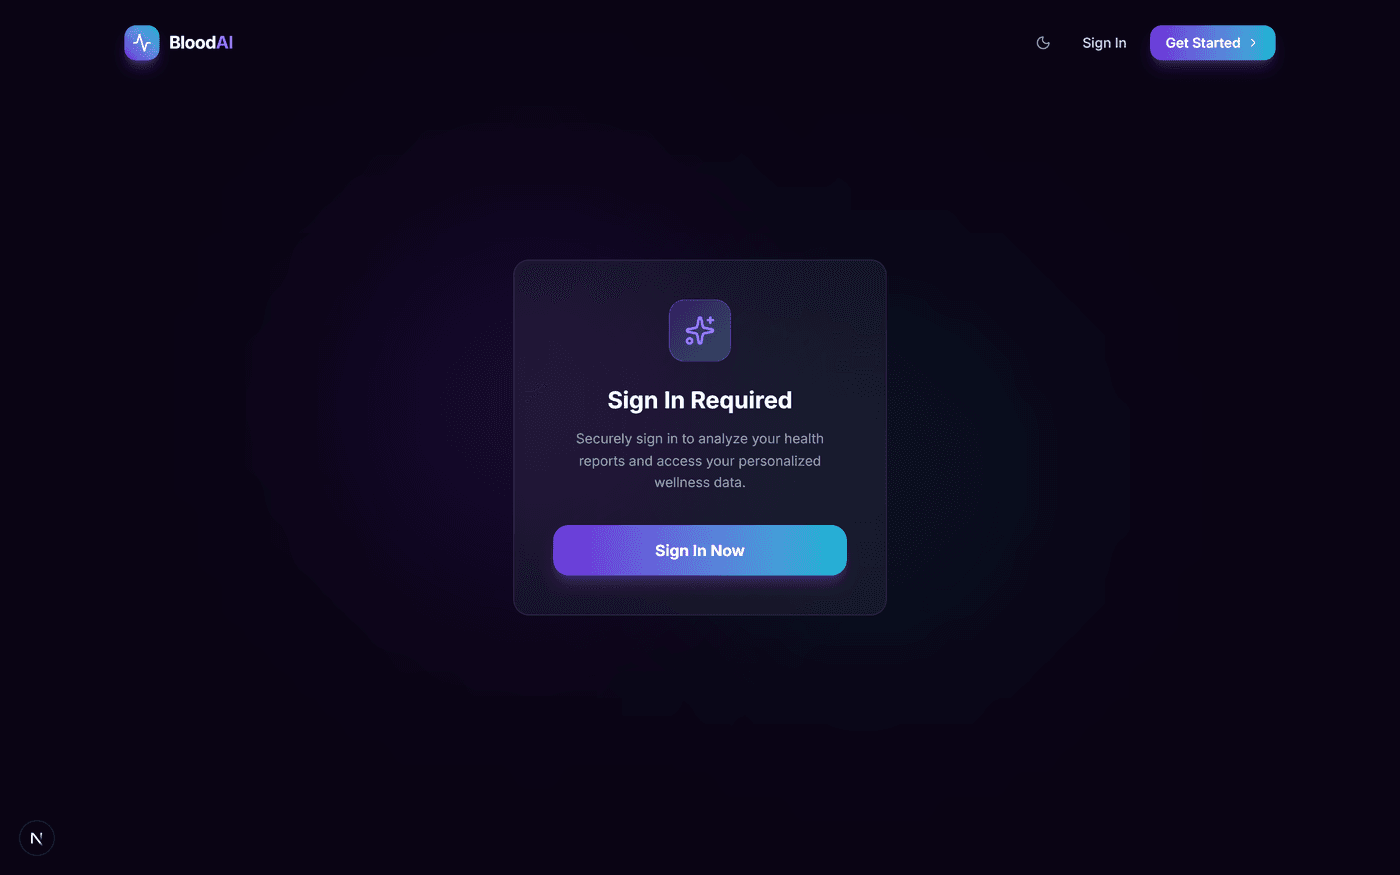
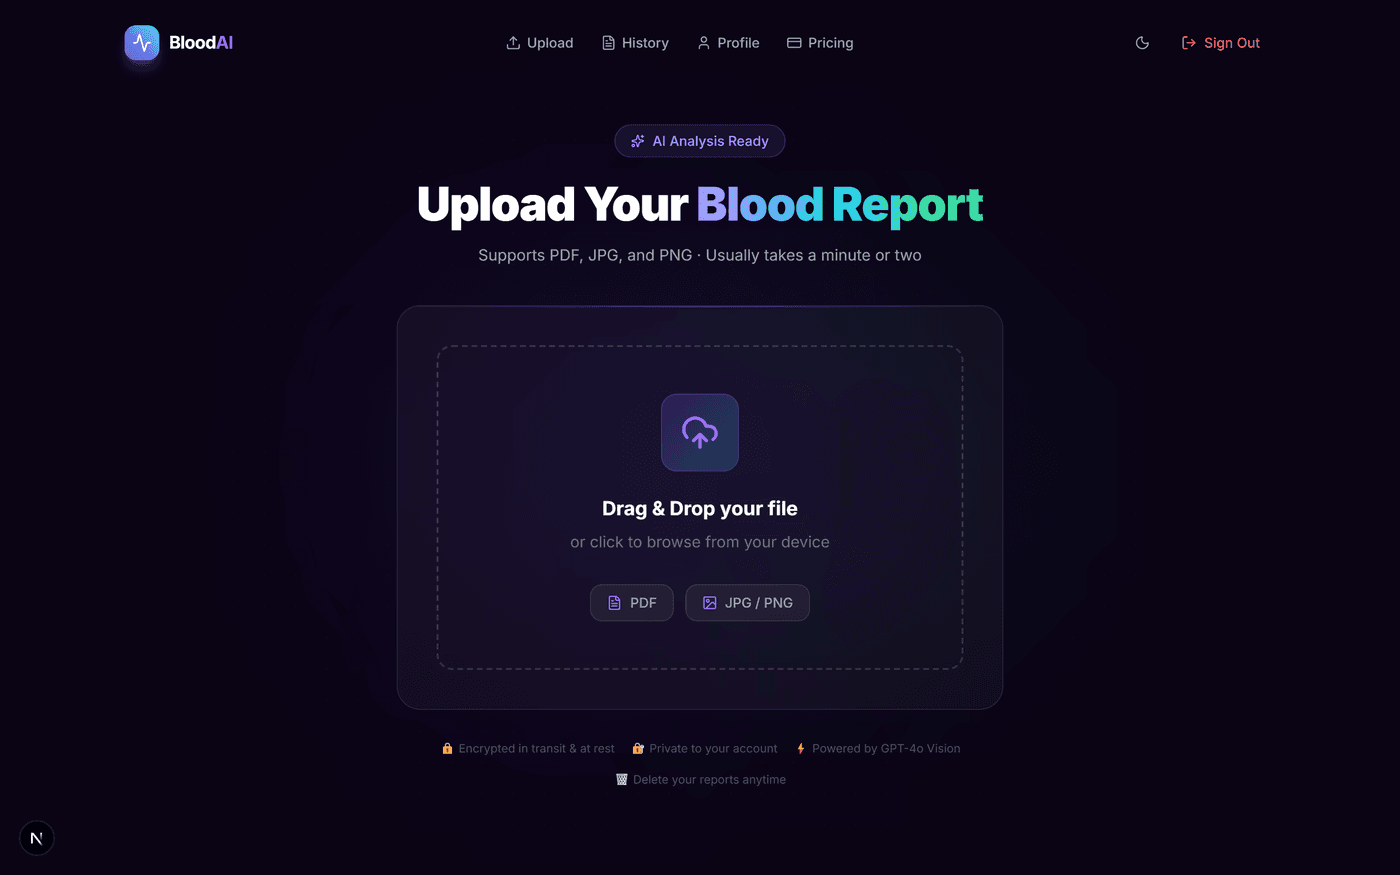
security: lock down Firestore, add real feature screenshots to README
The deployed Firestore ruleset on blood-report-ai-2cda8 was:

    match /{document=**} { allow read, write: if true; }

Every document was readable, writable and deletable by anyone on the
internet, with no authentication. Confirmed against the live database
using nothing but the public web API key: reading a report, listing the
reports collection, listing users (real email addresses), and creating a
document all succeeded anonymously. The write probe was made in a
throwaway collection and deleted immediately; no real record was touched.

firestore.rules now defines what the app actually needs:

- users/{uid}      : owner read and write
- reports/{id}     : get is owner-only; list allows either "my reports"
                     or documents carrying a shareId, which is what the
                     public share page queries while signed out
- mealLogs/...     : owner read, server-only write
- everything else  : denied

get and list are separated deliberately. The analyze route stamps a
shareId onto every report, so a single "read" rule keyed off shareId
would have left every report readable to anyone who learned its id.

Verified after deploying, end to end in a browser: owner sign-in, own
report, history, and profile all work with a clean console; public share
links still resolve while signed out; and a signed-out visitor hitting a
report id directly is blocked. 7/7 checks pass.

README: added screenshots of the actual product - upload, summary, all
[…]

diff --git a/README.md b/README.md
@@ -61,15 +61,60 @@ Three steps, about a minute or two.
 
 ---
 
-## Screenshots
+## See it in action
 
-**Home page**
+Everything below is a real run on a public sample lab report — a
+[Drlogy Complete Blood Count template](https://drlogy.com). The report has 19 markers,
+two of them out of range: haemoglobin low at 12.5 g/dL and packed cell volume high at
+57.5%. BloodAI found both.
 
-![Home page, full](docs/screenshots/landing-full.png)
-
-**Upload screen** (you need a free account first)
+### 1. Drop in your report
 
 ![Upload screen](docs/screenshots/upload.png)
+
+### 2. Get the summary
+
+A health score, a count of what's normal versus what needs attention, a written summary,
+your top goals, and the single most important thing to do first.
+
+![Results summary](docs/screenshots/results-summary.png)
+
+### 3. Go through every marker
+
+Each test with your value, the normal range, and a plain-English explanation. Anything
+out of range also gets likely causes and a specific plan.
+
+![All test results](docs/screenshots/results-tests.png)
+
+### 4. See it as charts
+
+A breakdown of normal versus flagged results, and a map of how your markers sit relative
+to their ranges.
+
+![Charts and visuals](docs/screenshots/results-visuals.png)
+
+### 5. Look ahead
+
+Conditions that could develop based on the pattern across markers — with a timeframe,
+the reasoning, and how to prevent each one.
+
+![Future predictions](docs/screenshots/results-predictions.png)
+
+### 6. Eat and live around your results
+
+![Nutrition plan](docs/screenshots/results-nutrition.png)
+
+![Lifestyle plan](docs/screenshots/results-lifestyle.png)
+
+### 7. Check your medicines
+
+If you list what you take, BloodAI flags known interactions with your lab values.
+
+![Medication alerts](docs/screenshots/results-medications.png)
+
+### The home page
+
+![Home page, full](docs/screenshots/landing-full.png)
 
 ---
 
@@ -138,7 +183,22 @@ NEXT_PUBLIC_RAZORPAY_KEY_ID=your_razorpay_id
 > GOOGLE_APPLICATION_CREDENTIALS=C:\full\path\to\service-account.json
 > ```
 
-### 3. Start it
+### 3. Lock down your database
+
+**Do not skip this.** A new Firebase project often starts in test mode, which leaves
+every document readable and writable by anyone on the internet. This repo ships the
+rules it actually needs in [`firestore.rules`](firestore.rules) — deploy them before you
+put any real data in:
+
+```bash
+firebase deploy --only firestore:rules
+```
+
+You can check what is currently live under
+**Firebase Console → Firestore Database → Rules**. If you see
+`allow read, write: if true;`, your database is wide open.
+
+### 4. Start it
 
 ```bash
 npm run dev
@@ -215,9 +275,12 @@ product.
 - It is **not** certified or approved by any medical regulator
 - Analysis quality depends on how readable your report is — a clear PDF beats a blurry
   photo every time
-- Your reports are encrypted in transit and at rest, and Firebase Authentication ties
-  them to your account. There is no automatic deletion yet, but you can delete any
-  report yourself from the History page.
+- Reports are encrypted in transit and at rest. Access control depends entirely on the
+  Firestore rules you deploy — see step 3 of the setup above, and check yours
+- Anyone holding a share link can open that report, by design. Treat share links as
+  public
+- There is no automatic deletion yet. You can delete any report yourself from the
+  History page.
 
 ---
 
